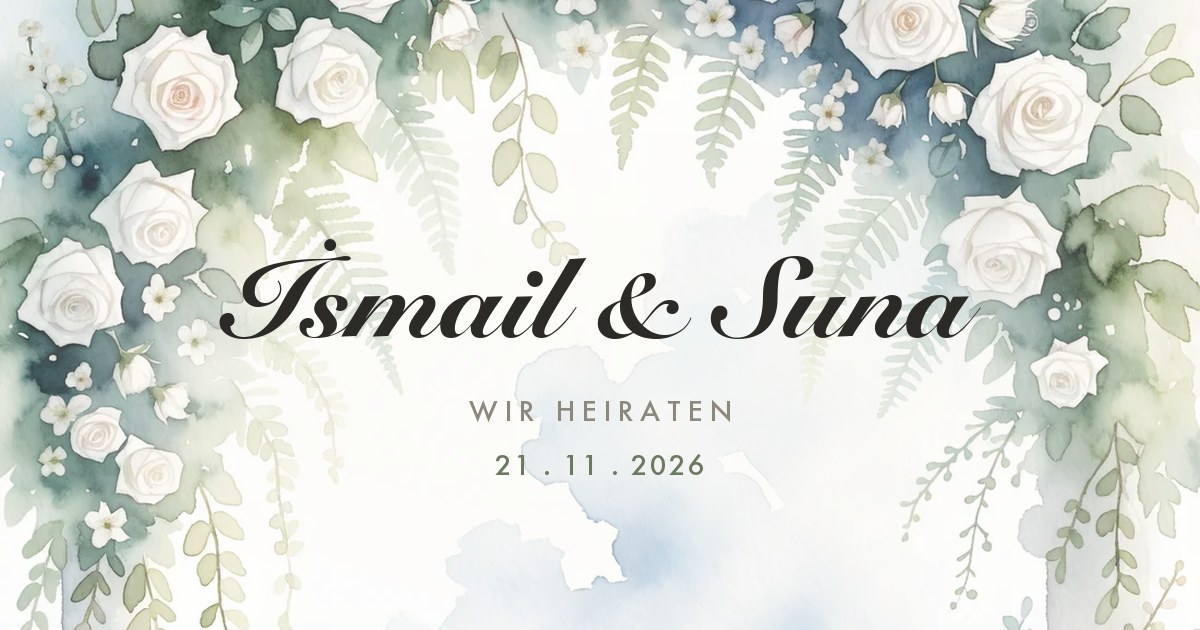
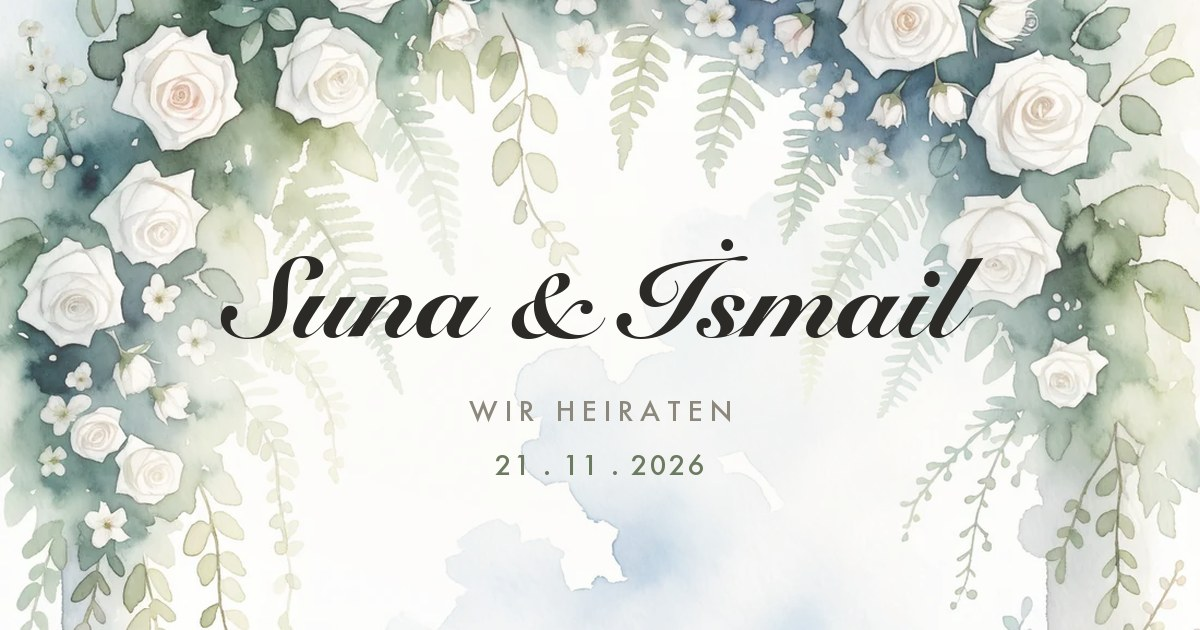
Suna zuerst, Çıkın mit türkischem ı, Küşat Altun, neuer Einladungstext
Version 202608312001

Changed region(s): [[0.185, 0.3619, 0.8325, 0.5429]]

diff --git a/ismail-suna/index.html b/ismail-suna/index.html
@@ -3,22 +3,22 @@
 <head>
 <meta charset="utf-8">
 <meta name="viewport" content="width=device-width, initial-scale=1, viewport-fit=cover">
-<title>İsmail &amp; Suna — Wir heiraten</title>
+<title>Suna &amp; İsmail — Wir heiraten</title>
 <meta name="robots" content="noindex, nofollow">
-<meta name="description" content="İsmail und Suna heiraten am 21. November 2026.">
+<meta name="description" content="Suna und İsmail heiraten am 21. November 2026.">
 
 <!-- Vorschau beim Teilen in WhatsApp, Telegram, iMessage.
      og:image braucht eine vollstaendige Adresse - relative Pfade ignorieren
      die Messenger. Bei einem neuen Projekt hier die eigene Domain eintragen. -->
 <meta property="og:type" content="website">
-<meta property="og:site_name" content="İsmail &amp; Suna">
-<meta property="og:title" content="İsmail &amp; Suna — Wir heiraten">
+<meta property="og:site_name" content="Suna &amp; İsmail">
+<meta property="og:title" content="Suna &amp; İsmail — Wir heiraten">
 <meta property="og:description" content="21. November 2026 · Ceremony Eventlocation, Bottrop. Hier ist unsere Einladung.">
 <meta property="og:url" content="https://karten.einladungendigital.de/ismail-suna/">
 <meta property="og:image" content="https://karten.einladungendigital.de/ismail-suna/assets/img/vorschau.jpg">
 <meta property="og:image:width" content="1200">
 <meta property="og:image:height" content="630">
-<meta property="og:image:alt" content="İsmail und Suna, 21. November 2026">
+<meta property="og:image:alt" content="Suna und İsmail, 21. November 2026">
 <meta property="og:locale" content="de_DE">
 <meta property="og:locale:alternate" content="tr_TR">
 <meta name="twitter:card" content="summary_large_image">
@@ -34,8 +34,8 @@ if (!location.hash) {
   addEventListener('load', () => { if (!location.hash) window.scrollTo(0, 0); });
 }
 </script>
-<link rel="stylesheet" href="css/style.css?v=202608292218">
-<link rel="stylesheet" href="css/karte.css?v=202608292218">
+<link rel="stylesheet" href="css/style.css?v=202608312001">
+<link rel="stylesheet" href="css/karte.css?v=202608312001">
 </head>
 <body>
 
@@ -80,7 +80,7 @@ if (!location.hash) {
         <!-- Die Karte steckt im Umschlag und gleitet beim Oeffnen heraus -->
         <div class="env-karte" id="env-karte" aria-hidden="true">
           <span class="ek-linie"></span>
-          <span class="ek-namen" id="ek-namen">İsmail &amp; Suna</span>
+          <span class="ek-namen" id="ek-namen">Suna &amp; İsmail</span>
           <span class="ek-linie"></span>
         </div>
         <svg viewBox="0 0 200 140" class="env-svg" aria-hidden="true">
@@ -105,7 +105,7 @@ if (!location.hash) {
   <button id="skip" class="skip" hidden>Überspringen</button>
 
   <div class="hero-grund" aria-hidden="true">
-    <img src="assets/img/allee.webp?v=202608292218" alt="" decoding="async">
+    <img src="assets/img/allee.webp?v=202608312001" alt="" decoding="async">
   </div>
 
   <svg id="scene" class="scene" viewBox="0 0 1000 1800" preserveAspectRatio="xMidYMid slice" aria-hidden="true">
@@ -129,7 +129,7 @@ if (!location.hash) {
     </defs>
 
     <!-- Die Allee -->
-    <image href="assets/img/allee.webp?v=202608292218" x="0" y="0" width="1000" height="1800"
+    <image href="assets/img/allee.webp?v=202608312001" x="0" y="0" width="1000" height="1800"
            preserveAspectRatio="xMidYMid slice"/>
 
     <!-- Perlen, die aus dem Heck rieseln -->
@@ -153,7 +153,7 @@ if (!location.hash) {
            ein zweites, dunkles Auto. -->
       <ellipse cx="22" cy="48" rx="102" ry="262" fill="#120d07" opacity=".34" filter="url(#weich)"/>
       <g filter="url(#tempo)">
-        <image href="assets/img/wagen.webp?v=202608292218" x="-150" y="-320" width="300" height="639"/>
+        <image href="assets/img/wagen.webp?v=202608312001" x="-150" y="-320" width="300" height="639"/>
       </g>
     </g>
 
@@ -176,14 +176,14 @@ if (!location.hash) {
   <!-- ---------- Kopf der Karte ---------- -->
   <section class="sek kopf" id="sek-kopf">
     <div class="kulisse" aria-hidden="true">
-      <img class="kulisse-grund" data-px="5" src="assets/img/rahmen.webp?v=202608292218" alt="" loading="eager" decoding="async">
+      <img class="kulisse-grund" data-px="5" src="assets/img/rahmen.webp?v=202608312001" alt="" loading="eager" decoding="async">
       <div class="tauben" id="tauben"></div>
       <div class="falterfeld" id="falterfeld"></div>
       <span class="kulisse-schleier"></span>
     </div>
     <p class="monogramm rv" data-rv="1" id="monogramm" aria-hidden="true"></p>
     <p class="ueberzeile rv" data-rv="2" id="kopf-ueber">Die Einladung</p>
-    <h1 class="paarnamen rv" data-rv="2"><span id="k-namen">İsmail &amp; Suna</span></h1>
+    <h1 class="paarnamen rv" data-rv="2"><span id="k-namen">Suna &amp; İsmail</span></h1>
     <p class="kopf-zeile rv" data-rv="3"><span id="k-zeile">wir heiraten</span></p>
     <div class="datum rv" data-rv="4">
       <span class="datum-strich"></span>
@@ -207,7 +207,7 @@ if (!location.hash) {
   </section>
   <!-- ---------- Ein Bild, das die Seite einmal aufreisst ---------- -->
   <section class="grossbild" id="sek-zitat" aria-label="Bildmoment">
-    <img class="gb-bild" data-px="8" src="assets/img/g4-tafel.webp?v=202608292218" alt="" loading="lazy" decoding="async">
+    <img class="gb-bild" data-px="8" src="assets/img/g4-tafel.webp?v=202608312001" alt="" loading="lazy" decoding="async">
     <span class="gb-schleier"></span>
     <div class="gb-text">
       <p class="gb-gross rv" data-rv="1" id="zitat-gross"></p>
@@ -216,7 +216,7 @@ if (!location.hash) {
   </section>
   <!-- ---------- Countdown (Kontrastmoment, volle Breite) ---------- -->
   <section class="sek-breit countdown" id="sek-countdown" aria-label="Countdown">
-    <img class="cd-grund" data-px="7" src="assets/img/g5-lichter.webp?v=202608292218" alt="" loading="lazy" decoding="async">
+    <img class="cd-grund" data-px="7" src="assets/img/g5-lichter.webp?v=202608312001" alt="" loading="lazy" decoding="async">
     <span class="cd-schleier"></span>
     <p class="ueberzeile hell" id="cd-ueber">Noch</p>
     <div class="cd-reihe" id="cd-reihe" role="timer" aria-live="off">
@@ -232,7 +232,7 @@ if (!location.hash) {
   <div class="doppel">
   <!-- ---------- Anrede ---------- -->
   <section class="sek anrede" id="sek-anrede">
-    <p class="fliess gross rv" data-rv="1" id="a-text"></p>
+    <div class="fliess gross rv" data-rv="1" id="a-text"></div>
     <p class="signatur rv" data-rv="2" id="a-gruss"></p>
   </section>
   </div>
@@ -268,7 +268,7 @@ if (!location.hash) {
   </section>
   <!-- ---------- Abschied ---------- -->
   <section class="grossbild abschied" id="sek-abschied" aria-label="Abschied">
-    <img class="gb-bild" data-px="8" src="assets/img/g1-strauss.webp?v=202608292218" alt="" loading="lazy" decoding="async">
+    <img class="gb-bild" data-px="8" src="assets/img/g1-strauss.webp?v=202608312001" alt="" loading="lazy" decoding="async">
     <span class="gb-schleier"></span>
     <div class="gb-text">
       <p class="ab-gross rv" data-rv="1" id="abschied-gross"></p>
@@ -300,8 +300,8 @@ if (!location.hash) {
   <p class="lupe-text" id="lupe-text"></p>
 </div>
 
-<script src="js/config.js?v=202608292218"></script>
-<script src="js/hero.js?v=202608292218"></script>
-<script src="js/karte.js?v=202608292218"></script>
+<script src="js/config.js?v=202608312001"></script>
+<script src="js/hero.js?v=202608312001"></script>
+<script src="js/karte.js?v=202608312001"></script>
 </body>
 </html>

diff --git a/ismail-suna/js/config.js b/ismail-suna/js/config.js
@@ -11,7 +11,7 @@ window.HOCHZEIT = {
 
   // Wird von bin/veroeffentlichen.sh gesetzt und an alle Bilder gehaengt,
   // damit Browser nach einer Aenderung nicht die alte Fassung zeigen.
-  version: '202608292218',
+  version: '202608312001',
 
   /* ---------- Sprachen ---------- */
   standardsprache: 'de',
@@ -21,7 +21,7 @@ window.HOCHZEIT = {
   /* Noch offen: beide Nachnamen. */
   braut:        'Suna',
   braeutigam:   'İsmail',
-  namen:        'İsmail & Suna',
+  namen:        'Suna & İsmail',
   datumKurz:    '21.11.2026',
   datumISO:     '2026-11-21',
   /* Mit Zeitzonenversatz, sonst rechnen Countdown und Kalendereintrag in
@@ -56,9 +56,9 @@ window.HOCHZEIT = {
       namen:    ['Dürdane und Mehmet Mustafa Bozhüyük'],
       namen_tr: ['Dürdane ve Mehmet Mustafa Bozhüyük'] },
     { schluessel: 'brautseite',
-      namen:    ['Hasret und der verstorbene Süleyman Çikin'],
-      namen_tr: ['Hasret ve merhum Süleyman Çikin'] },
-    { schluessel: 'trauzeugen',      namen: ['Annemaria Amedahevi', 'Küşat'] },   // TODO Nachname Küşat
+      namen:    ['Hasret und der verstorbene Süleyman Çıkın'],
+      namen_tr: ['Hasret ve merhum Süleyman Çıkın'] },
+    { schluessel: 'trauzeugen',      namen: ['Annemaria Amedahevi', 'Küşat Altun'] },
   ],
 
   /* ---------- Geschenke ---------- */
@@ -120,10 +120,14 @@ window.HOCHZEIT = {
       kalenderFertig: 'Gespeichert',
       kalenderNotiz: adr => 'Wir freuen uns auf euch. Alle Angaben zum Tag: ' + adr,
 
-      anredeText: 'Am 21. November geben wir uns das Ja-Wort. '
-                + 'Wir würden uns freuen, wenn ihr dabei seid – zur Trauung, '
-                + 'zum Essen und danach so lange, wie ihr mögt.',
-      anredeGruss: 'Suna und Ismail',
+      /* Mehrere Absaetze: karte.js baut daraus je ein <p>. */
+      anredeText: [
+        'Am 21. November möchten wir diesen besonderen Tag mit euch feiern.',
+        'Freut euch auf gutes Essen, Musik und viele schöne Momente. '
+          + 'Lasst uns gemeinsam lachen, tanzen und einfach eine wundervolle Zeit haben.',
+        'Wir freuen uns auf einen unvergesslichen Abend mit euch!',
+      ],
+      anredeGruss: 'Suna & İsmail',
 
       zitat: 'Ein Tag. Und danach alle anderen.',
       zitatKlein: 'Wir freuen uns darauf, ihn mit euch anzufangen.',
@@ -241,10 +245,13 @@ window.HOCHZEIT = {
       kalenderFertig: 'Eklendi',
       kalenderNotiz: adr => 'Sizi aramızda görmek için sabırsızlanıyoruz. Günün tüm ayrıntıları: ' + adr,
 
-      anredeText: '21 Kasım günü hayatımızı birleştiriyoruz. '
-                + 'Bu özel günümüzde sizi de aramızda görmekten mutluluk duyarız – '
-                + 'nikâhta, yemekte ve sonrasında dilediğiniz kadar.',
-      anredeGruss: 'Suna ve Ismail',
+      anredeText: [
+        '21 Kasım günü bu özel günü sizinle birlikte kutlamak istiyoruz.',
+        'Güzel yemekler, müzik ve nice güzel anlar sizi bekliyor. '
+          + 'Birlikte gülelim, dans edelim ve harika bir zaman geçirelim.',
+        'Sizinle unutulmaz bir akşam geçirmeyi dört gözle bekliyoruz!',
+      ],
+      anredeGruss: 'Suna & İsmail',
 
       zitat: 'Bir gün. Ve ardından bütün diğerleri.',
       zitatKlein: 'Bu güne sizinle başlamak bizi mutlu edecek.',

diff --git a/ismail-suna/js/karte.js b/ismail-suna/js/karte.js
@@ -197,7 +197,12 @@
 
     // Kopf
     const mono = $('monogramm');
-    if (mono) mono.textContent = C.braeutigam.charAt(0) + ' · ' + C.braut.charAt(0);
+    // Die Initialen folgen der Reihenfolge, in der die Namen stehen -
+    // sonst zeigt das Monogramm İ · S, waehrend darunter Suna & İsmail steht.
+    if (mono) {
+      const teile = C.namen.split(/\s*&\s*/);
+      mono.textContent = teile.map(t => t.trim().charAt(0)).join(' · ');
+    }
     setzen('k-namen', C.namen);
     setzen('k-zeile', S.heroZeile);
     setzen('kopf-ueber', S.kopfUeberzeile);
@@ -209,7 +214,21 @@
     setzen('btn-kalender-text', S.kalenderKnopf);
 
     // Anrede
-    setzen('a-text', S.anredeText);
+    // Die Anrede kann aus mehreren Absaetzen bestehen. textContent wuerde
+    // Zeilenumbrueche schlucken, also je Absatz ein eigenes <p>.
+    const aText = $('a-text');
+    if (aText) {
+      if (Array.isArray(S.anredeText)) {
+        aText.innerHTML = '';
+        S.anredeText.forEach((z, i) => {
+          const p = el('p', 'anrede-absatz');
+          p.textContent = z;
+          aText.appendChild(p);
+        });
+      } else {
+        aText.textContent = S.anredeText;
+      }
+    }
     setzen('a-gruss', S.anredeGruss);
 
     // Bildmomente

diff --git a/ismail-suna/css/karte.css b/ismail-suna/css/karte.css
@@ -995,3 +995,7 @@ body.hell-oben .sprachwahl{
 }
 .gal-leer-zeichen{display:block;width:clamp(30px,7vw,44px);color:#b8ac93}
 .gal-leer-zeichen svg{width:100%;height:auto;display:block}
+
+/* ---- Anrede in mehreren Absätzen ---- */
+.anrede-absatz{margin:0 0 .9em}
+.anrede-absatz:last-child{margin-bottom:0}
